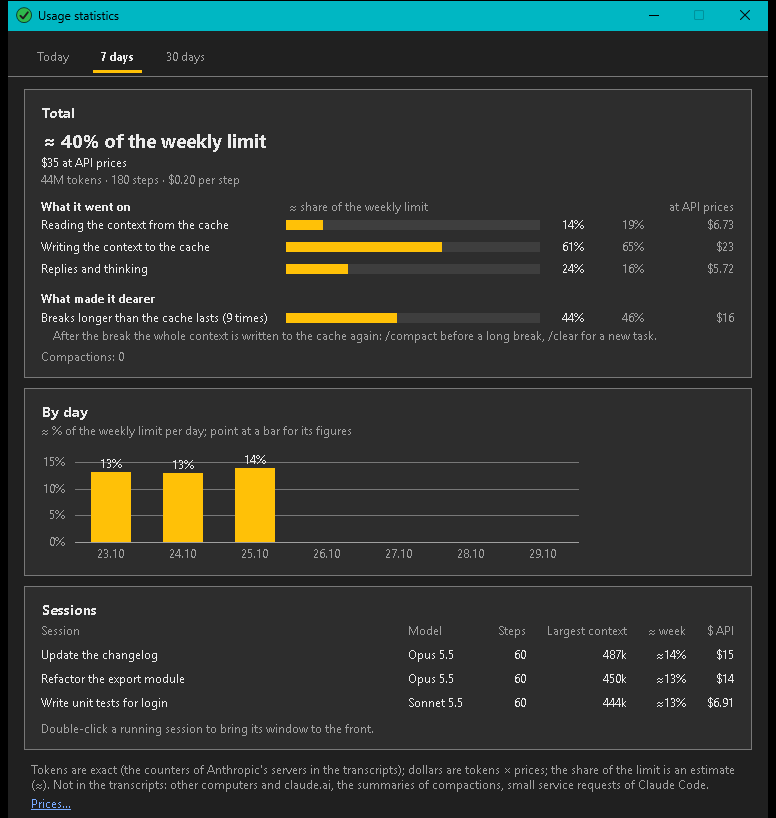
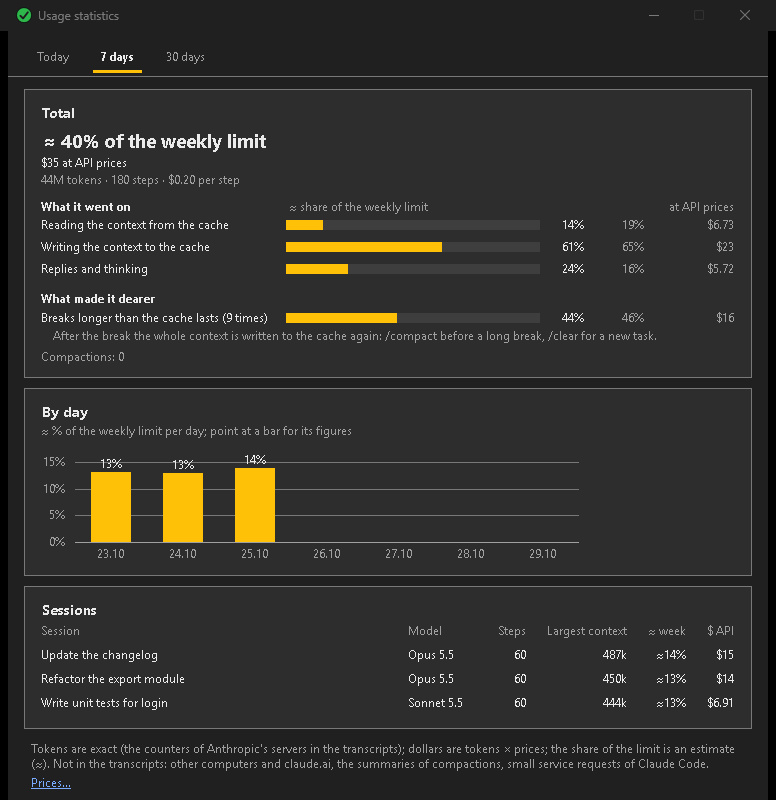
Statistics: no hint line under the sessions

diff --git a/docs/index.html b/docs/index.html
@@ -157,7 +157,7 @@
       <p class="small">The app itself never contacts Anthropic and never touches your Claude sign-in: in the background it only starts Claude Code's own command. Use on other devices shows up at the next <code>/usage</code>. A sign-in without a subscription (an API key) has no such limits, and the app shows none.</p>
     </div>
   </div>
-  <img class="wide-shot" src="stats.png" width="776" height="818" loading="lazy" alt="The statistics window for 7 days: about 40% of the weekly limit, $35 at API prices; what it went on, reading the cache 14%, writing it 61%, replies 24% of the limit; breaks longer than the cache lasts 44%; a bar per day on a scale of the weekly limit, 13 to 14% on three days; three sessions with model, steps, largest context, share of the week and dollars">
+  <img class="wide-shot" src="stats.png" width="776" height="800" loading="lazy" alt="The statistics window for 7 days: about 40% of the weekly limit, $35 at API prices; what it went on, reading the cache 14%, writing it 61%, replies 24% of the limit; breaks longer than the cache lasts 44%; a bar per day on a scale of the weekly limit, 13 to 14% on three days; three sessions with model, steps, largest context, share of the week and dollars">
 
   <h2>Get started</h2>
   <p>1. Download <code>ClaudeCodeTrafficLight.exe</code> from the <a href="https://github.com/BelalovBM/claude-code-traffic-light/releases">releases page</a> and run it.<br>

diff --git a/src/StatsForm.cs b/src/StatsForm.cs
@@ -515,7 +515,7 @@ namespace Semaphore
                 if (c.Painting) sessionsLink = new Rectangle(left, y + Ui.S(4), size.Width, size.Height);
                 y = c.Text(text, left, y + Ui.S(4), size.Width + 2, Palette.Link);
             }
-            return c.Text(Loc.T("stats.sessions.hint"), left, y + Ui.S(6), inner, Theme.Muted);
+            return y;
         }
 
         // "claude-opus-5-5" → "Opus 5.5".
